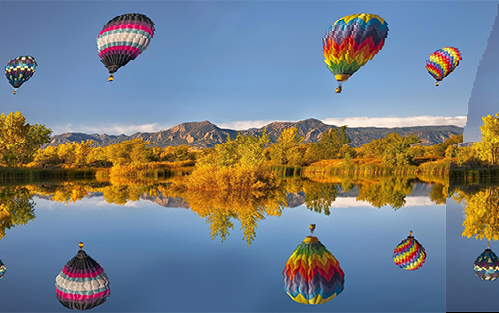
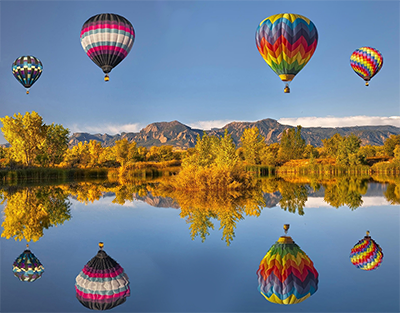
some update

diff --git a/assigns/05/MySolution/Python/assign05_03.py b/assigns/05/MySolution/Python/assign05_03.py
@@ -2,8 +2,6 @@
 #!/usr/bin/env python3
 ####################################################
 import sys
-
-
 sys.path.append('./../../../05')
 sys.path.append('./../../../../mypylib')
 from mypylib_cls import *
@@ -16,8 +14,10 @@ BU CAS CS320-2023-Spring: Image Processing
 import math
 ####################################################
 import kervec
-from kervec import kernel_ifoldleft, kernel
+from kervec import *
 import imgvec
+from imgvec import *
+
 ####################################################
 from PIL import Image
 ####################################################
@@ -152,6 +152,7 @@ def image_blur_bbehav_color(image, ksize, bbehav):
 #save_color_image(image_blur_bbehav_color(balloons, 5, 'extend'), "OUTPUT/balloons_blurred.png")
 ####################################################
 
+
 def image_seam_carving_color(image, ncol):
     """
     Starting from the given image, use the seam carving technique to remove
@@ -160,77 +161,69 @@ def image_seam_carving_color(image, ncol):
    
     
     assert ncol < image.width
-    energy = image_edges_color(image)
-    hh = image.height
-    ww = image.width
-    print(hh,ww)
     
-
-    def available_neighbours(idx):
-        return int1_foldleft(3, [], \
-                        lambda r0, x0: 
-                            r0 +[x0-1] if (ww >(idx%ww + x0-1)>= 0) else r0)
-    def min_neighbour(idx, r0): 
-        #print(available_neighbours(idx))
-        max_tuple =  pylist_foldleft(
-                        available_neighbours(idx),
-                        [999999999, -1], 
-                        lambda r1, x1: 
-                            [r0[(x1 + idx) % ww][0] ,(x1+idx)% ww] if r0[(x1 + idx) % ww][0] < r1[0] else r1)
-        return max_tuple[1]
-    def update_energy(idx, r0, x0):
-        # if idx!= 0 and idx % ww == 0:
-        #     print(idx)
-        #     print(r0)
-        #     assert False
-        curr = min_neighbour(idx, r0[0])
-        #print(idx, curr)
-        r0[1][idx % ww] = [
-            r0[0][curr][0] + x0,
-            r0[0][curr][1] + [idx]
-        ]
-        if idx % ww == ww-1:
-            r0[0] = r0[1]
-        return r0
-
-    ini = int1_foldleft(ww, [], lambda r0, x0: r0+[[0,[]]])
-    energy_kernel = kernel(ww*hh, energy.pixlst)
-
-    res = kernel_ifoldleft(energy_kernel, [ini, ini], lambda r0, idx, x0: 
-                update_energy(idx, r0, x0) 
-            )
-    print(res[0][-1])
-    #print(energy.pixlst[-3:])
+    #print(energy.pixlst)
     
-
-####################################################
-# save_color_image(image_seam_carving_color(balloons, 100), "OUTPUT/balloons_seam_carving_100.png")
-####################################################
-
-"""
-154499, 154999, 155499, 155999, 156499
-def min_path(r, c, r0):
-    
-        index = ww*r+c
+    def delete_column(image):
+        print("delete_column")
+        energy = image_edges_color(image)
+        print(energy.pixlst[-500:])
         
-        min_way = energy.pixlst[index]
-        min_pos = index
-        if c > 0 and energy.pixlst[index-1] < min_way:
-            min_way = energy.pixlst[index-1]
-            min_pos = index-1
-        if c < ww-2 and energy.pixlst[index+1] < min_way:
-            min_way = energy.pixlst[index+1]
-            min_pos = index+1
-        
-        r0[c] = [r0[c][0]+min_way, r0[c][1]+[min_pos]]
-        return r0
+        hh = image.height
+        ww = image.width
+        def min_path(row, col, data, r1):
+            value = energy.pixlst[(row+1)*ww+col]
+                
+            min_way = data[col][0]
+            min_pos = col
+            if col > 0 and data[col-1][0] < min_way:
+                min_way = data[col-1][0]
+                min_pos = col-1
 
-int1_foldleft(hh -1, initial_energy, lambda r0, r:
-                   int1_foldleft(ww, r0, lambda r1, c:
-                                 min_path(r+1, c, r1)))
-"""
+            if col < ww-1 and data[col+1][0] < min_way:
+                min_way = data[col+1][0]
+                min_pos = col+1
+        
+            r1 = r1 + [[min_way+value, data[min_pos][1]+[col]]]
+            #print(r1)
+
+            return r1
+
+        energy_bfs = int1_foldleft(ww, [], lambda r0, x0: r0+[[energy.pixlst[x0],[x0]]])
+
+        energy_bfs = int1_foldleft(hh -1, energy_bfs, lambda current_data, row:
+                int1_foldleft(ww, [], lambda r1, col:
+                        min_path(row, col, current_data, r1)))
+        
+        
+        for i in energy_bfs:
+            if len(i[1]) != hh:
+                assert False
+
+        min_energy = pylist_foldleft(energy_bfs, [99999999999999, []], 
+                lambda r0, x0:
+                        x0 if x0[0] < r0[0] else r0)
+        #print(energy_bfs[9])
+        #print(min_energy[1])
+        #print("min",min_energy[0], len(min_energy[1]))
+        image.pixlst = image_i2filter_pylist(image, lambda r, c, pix:
+                                        min_energy[1][r] != c)
+                                         
+        image.width = ww - 1
+
+        return image
+
+    return int1_foldleft(ncol, image, lambda r0, x0: delete_column(r0))
 
 balloons = load_color_image("INPUT/balloons.png")
-print("height", balloons.height, "width",balloons.width)
-print(len(balloons.pixlst))
-image_seam_carving_color(balloons,0)
+####################################################
+#save_color_image(image_seam_carving_color(balloons, 1), "OUTPUT/balloons_seam_carving_1.png")
+####################################################
+
+a = [20, 21, 20, 21, 20, 19, 18, 17, 16, 15, 14, 15, 15, 14, 15, 16, 17, 18, 19, 18, 19, 20, 19, 20, 21, 22, 22, 22, 21, 20, 20, 21, 20, 19, 18, 19, 20, 21, 20, 20, 21, 22, 21, 20, 19, 18, 17, 16, 15, 15, 16, 17, 17, 17, 16, 15, 16, 15, 14, 15, 16, 17, 16, 15, 14, 13, 12, 11, 10, 9, 8, 7, 6, 6, 5, 4, 5, 5, 5, 6, 7, 8, 7, 8, 7, 6, 6, 5, 4, 3, 2, 3, 4, 5, 4, 3, 3, 2, 2, 2, 3, 3, 2, 1, 1, 1, 1, 2, 3, 2, 1, 1, 2, 1, 1, 1, 2, 3, 2, 3, 4, 5, 6, 7, 8, 9, 9, 8, 9, 9, 9, 10, 11, 12, 13, 13, 13, 14, 15, 15, 16, 17, 17, 17, 16, 15, 15, 15, 14, 13, 12, 11, 12, 11, 11, 10, 9, 9, 8, 7, 6, 5, 4, 3, 3, 2, 2, 2, 2, 3, 2, 1, 2, 3, 4, 4, 3, 4, 3, 4, 4, 3, 3, 2, 2, 1, 0, 1, 2, 3, 4, 5, 4, 4, 5, 6, 6, 7, 6, 5, 5, 4, 3, 2, 1, 1, 2, 2, 3, 4, 5, 4, 3, 3, 2, 1, 1, 2, 3, 2, 3, 2, 1, 1, 1, 2, 3, 2, 2, 2, 2, 1, 2, 1, 2, 1, 2, 2, 2, 3, 4, 5, 6, 7, 7, 7, 8, 8, 9, 9, 8, 9, 10, 11, 10, 9, 8, 7, 6, 7, 6, 5, 4, 3, 2, 3, 4, 3, 3, 4, 5, 6, 7, 8, 9, 10, 11, 10, 9, 8, 7, 6, 6, 6, 7, 6, 5, 6, 7, 7, 8, 9, 8, 8, 9, 8, 7, 6, 7, 7, 6, 5, 6, 5, 4, 3, 3, 4, 5, 6, 7, 8, 8]
+
+energy = image_edges_color(balloons)
+r = foreach_to_ifoldleft(pylist_foreach)(a, [], lambda r0, i0, x0: r0+ [energy.pixlst[i0*energy.width+x0]] )
+print(r)    
+
+print(len([28, 28, 0, 4, 3, 0, 1, 4, 0, 0, 4, 0, 1, 0, 3, 4, 0, 0, 4, 1, 1, 4, 0, 1, 4, 0, 0, 0, 1, 4, 1, 3, 3, 0, 0, 0, 1, 4, 1, 4, 1, 4, 1, 0, 0, 4, 4, 4, 4,1, 0, 5, 1, 4, 4, 1, 2, 4, 0, 1, 0, 4, 2, 1, 0, 3, 3, 0, 1, 0, 3, 2, 5, 3, 2, 3, 6, 4, 4, 8, 6, 0, 3, 3, 2, 2, 1, 1, 3, 2, 3, 1, 4, 4, 2, 1, 4, 1, 1, 1, 3, 3, 0, 3, 0, 0, 0, 0, 0, 0, 4, 1, 1, 1, 6, 4, 3, 2, 3, 4, 12, 5, 2, 10, 8, 4, 11, 21, 22, 14, 4, 15, 13, 2, 0, 7, 7, 14, 19, 37, 6, 7, 36, 53, 131, 64, 47, 51, 21, 44, 105, 124, 113, 27, 71, 10, 98, 147, 56, 42, 72, 148, 177, 85, 88, 51, 20, 23, 18, 13, 20, 43, 10, 21, 56, 24, 13, 10, 40, 21, 19, 23, 25, 30, 13, 13, 49, 16, 23, 9, 16, 113, 106, 86, 72, 255, 55, 58, 51, 31, 19, 9, 17, 6, 8, 24, 18, 17, 16, 24, 14, 3, 13, 3, 6, 7, 4, 16, 6, 2, 2, 4, 13, 10, 3, 4, 6, 2, 6, 12, 5, 4, 1, 6, 3, 4, 3, 3, 6, 2, 1, 8, 10, 3, 1, 8, 6, 4, 3, 6, 5, 1, 0, 7, 3, 4, 6, 8, 4, 0, 4, 8, 4, 5, 11, 2, 4, 4, 8, 4, 1, 8, 4, 2, 4, 2, 4, 4, 6, 4, 0, 6, 6, 2, 4, 2, 7, 6, 2, 0, 2, 4, 4, 4, 4, 9, 8, 0, 1, 5, 4, 2, 0, 3, 8, 1, 1, 8, 6, 3, 2, 27, 34]))

diff --git a/assigns/05/MySolution/Python/OUTPUT/energy_update.py b/assigns/05/MySolution/Python/OUTPUT/energy_update.py
@@ -160,11 +160,11 @@ def image_seam_carving_color(image, ncol):
     assert ncol < image.width
     
     #print(energy.pixlst)
-    
-    def delete_column(image):
+    energy = image_edges_color(image)
+    def delete_column(image, energy):
         print("delete_column")
-        energy = image_edges_color(image)
         
+        #print(energy.pixlst[-1000:])
         
         hh = image.height
         ww = image.width
@@ -201,20 +201,23 @@ def image_seam_carving_color(image, ncol):
                 lambda r0, x0:
                         x0 if x0[0] < r0[0] else r0)
         #print(energy_bfs[9])
-        print(min_energy[1])
-        print("min",min_energy[0], len(min_energy[1]))
+        #print(min_energy[1])
+        #print("min",min_energy[0], len(min_energy[1]))
         image.pixlst = image_i2filter_pylist(image, lambda r, c, pix:
                                         min_energy[1][r] != c)
-                                         
         image.width = ww - 1
+        
+        energy.pixlst = pylist_make_ifilter(energy.pixlst, lambda i0, x0: min_energy[1][i0//ww] != i0%ww)
+        energy.width = ww - 1
+        
 
         return image
 
-    return int1_foldleft(ncol, image, lambda r0, x0: delete_column(r0))
+    return int1_foldleft(ncol, image, lambda r0, x0: delete_column(r0, energy))
 
 balloons = load_color_image("INPUT/balloons.png")
 ####################################################
-save_color_image(image_seam_carving_color(balloons, 10), "OUTPUT/balloons_seam_carving_10.png")
+save_color_image(image_seam_carving_color(balloons, 100), "OUTPUT/balloons_seam_carving_energy_100.png")
 ####################################################
 
 
